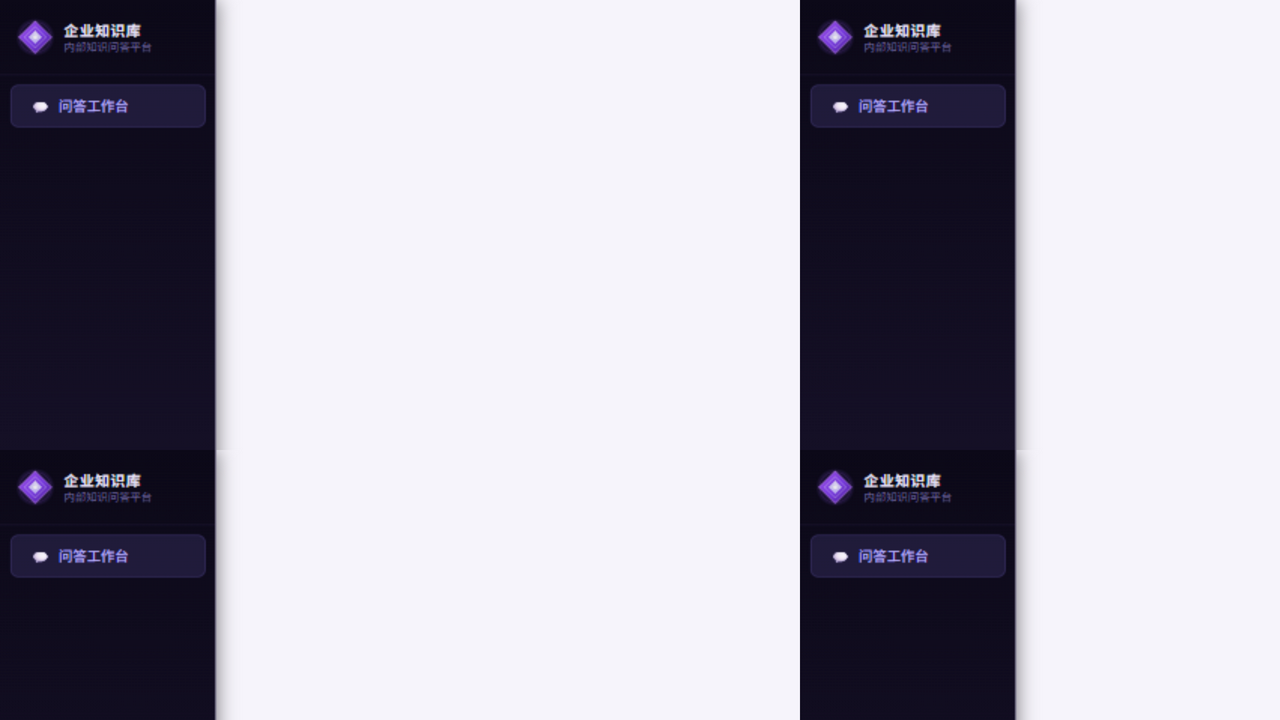
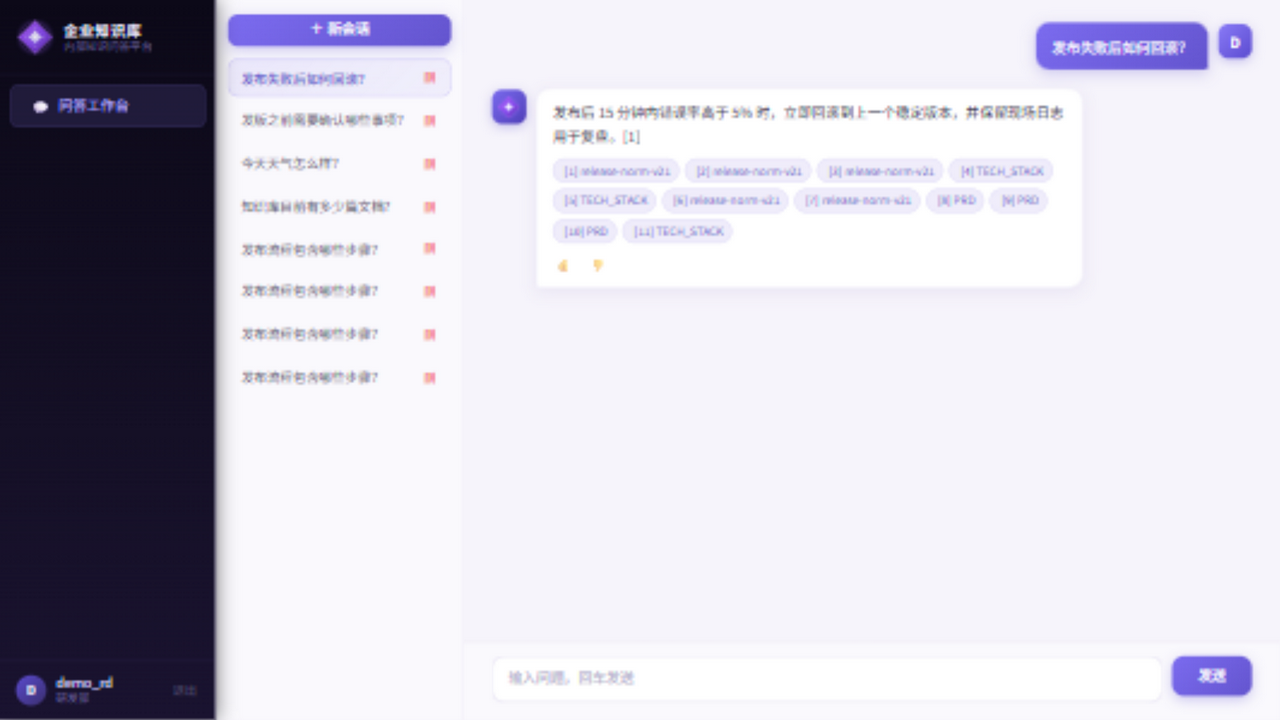
fix: ChatView 用户头像安全解析（localStorage 'null' 导致点开会话后主区空白）+ 重截 README 预览图（viewport，此前 fullPage 拼接错误）

diff --git a/web-ui/src/views/ChatView.vue b/web-ui/src/views/ChatView.vue
@@ -1,7 +1,16 @@
 <script setup>
-import { ref, onMounted, nextTick } from 'vue'
+import { ref, computed, onMounted, nextTick } from 'vue'
 import { ElMessage, ElMessageBox } from 'element-plus'
 import { api } from '../api'
+
+// 当前用户（安全解析：localStorage 中可能为 'null' 字符串，直接 parse 会抛错拖垮渲染）
+const currentUser = computed(() => {
+  try {
+    return JSON.parse(localStorage.getItem('rag_user') || 'null')
+  } catch {
+    return null
+  }
+})
 
 const sessions = ref([])
 const currentSessionId = ref(null)
@@ -158,7 +167,7 @@ onMounted(refreshSessions)
             </div>
           </div>
           <div v-if="m.role === 'user'" class="role-avatar user">
-            {{ (JSON.parse(localStorage.getItem('rag_user') || '{}').username || '我')[0].toUpperCase() }}
+            {{ (currentUser?.username || '我')[0].toUpperCase() }}
           </div>
         </div>
       </div>
